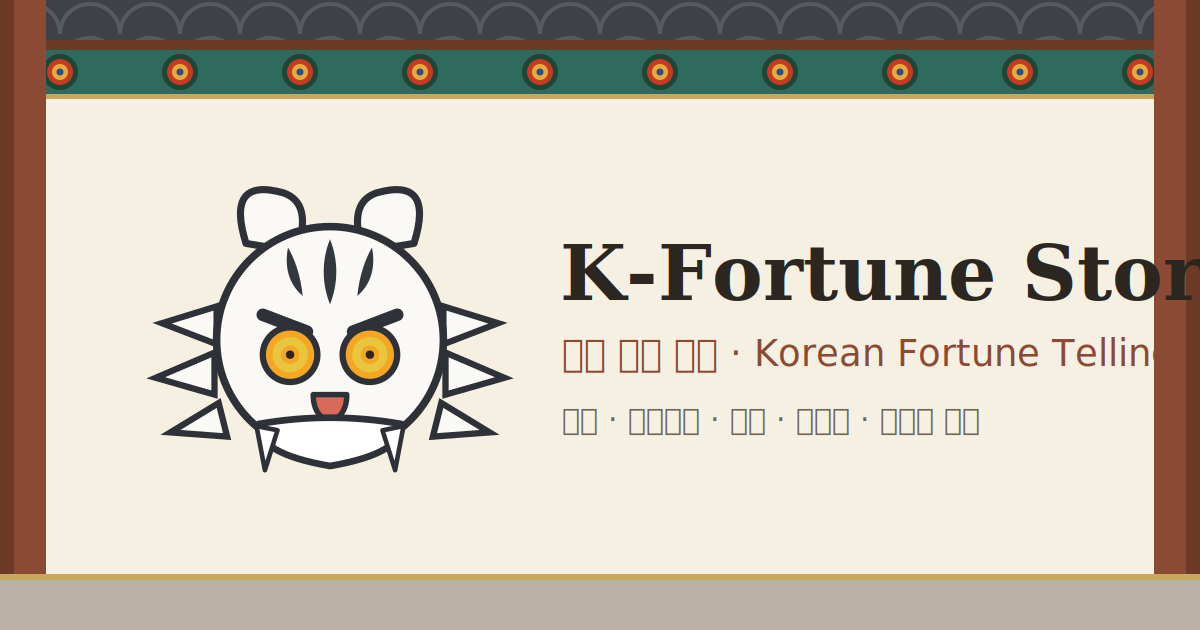
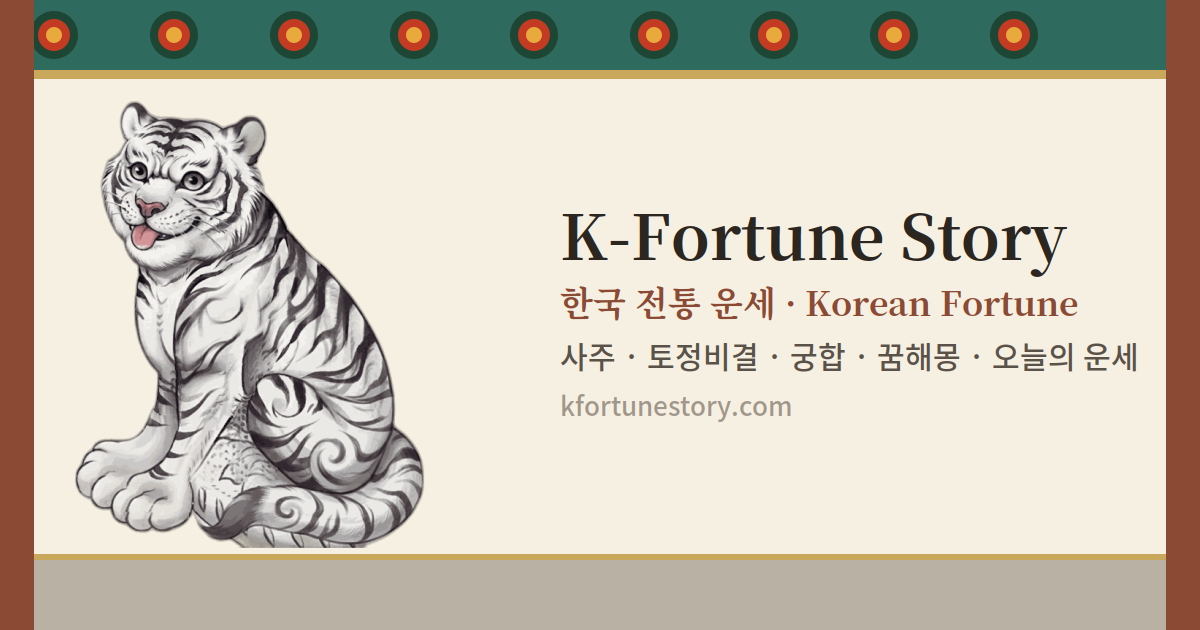
Add files via upload

diff --git a/index.html b/index.html
@@ -93,8 +93,7 @@ body::after{right:0}
   width:auto;
   z-index:6;
   pointer-events:none;
-  border-radius:10px;
-  box-shadow:0 3px 10px rgba(0,0,0,.28);
+  filter:drop-shadow(0 3px 6px rgba(0,0,0,.3));
   image-rendering:auto;
 }
 @media (max-width:560px){
@@ -537,8 +536,8 @@ footer p{
   <rect x="0" y="214" width="1200" height="8" fill="#C9A85C"/>
 </svg>
 
-<!-- ══ 흰 호랑이 (실사 일러스트, 호작도 스타일) ══ -->
-<img class="tiger" src="tiger-hero.jpg" alt="백호">
+<!-- ══ 흰 호랑이 (실사 일러스트, 배경 제거된 컷아웃) ══ -->
+<img class="tiger" src="tiger-hero-cutout.png" alt="백호">
 </div>
 
 <!-- 언어 토글 (좌측 상단으로 이동: 우측은 호랑이 자리) -->

diff --git a/about.html b/about.html
@@ -415,8 +415,8 @@ footer p{
   <rect x="0" y="214" width="1200" height="8" fill="#C9A85C"/>
 </svg>
 
-<!-- ══ 흰 호랑이 (민화 까치호랑이 스타일: 앉은 자세, 왼팔 위로, 꼬리 오른쪽) ══ -->
[1 lines of base64/hex data omitted]
+<!-- ══ 흰 호랑이 (실사 일러스트, 배경 제거된 컷아웃) ══ -->
+<img class="tiger" src="tiger-hero-cutout.png" alt="백호">
 </div>
 <main>
   <div class="navrow"><a class="homelink" id="lnkHome" href="index.html">⌂</a></div>